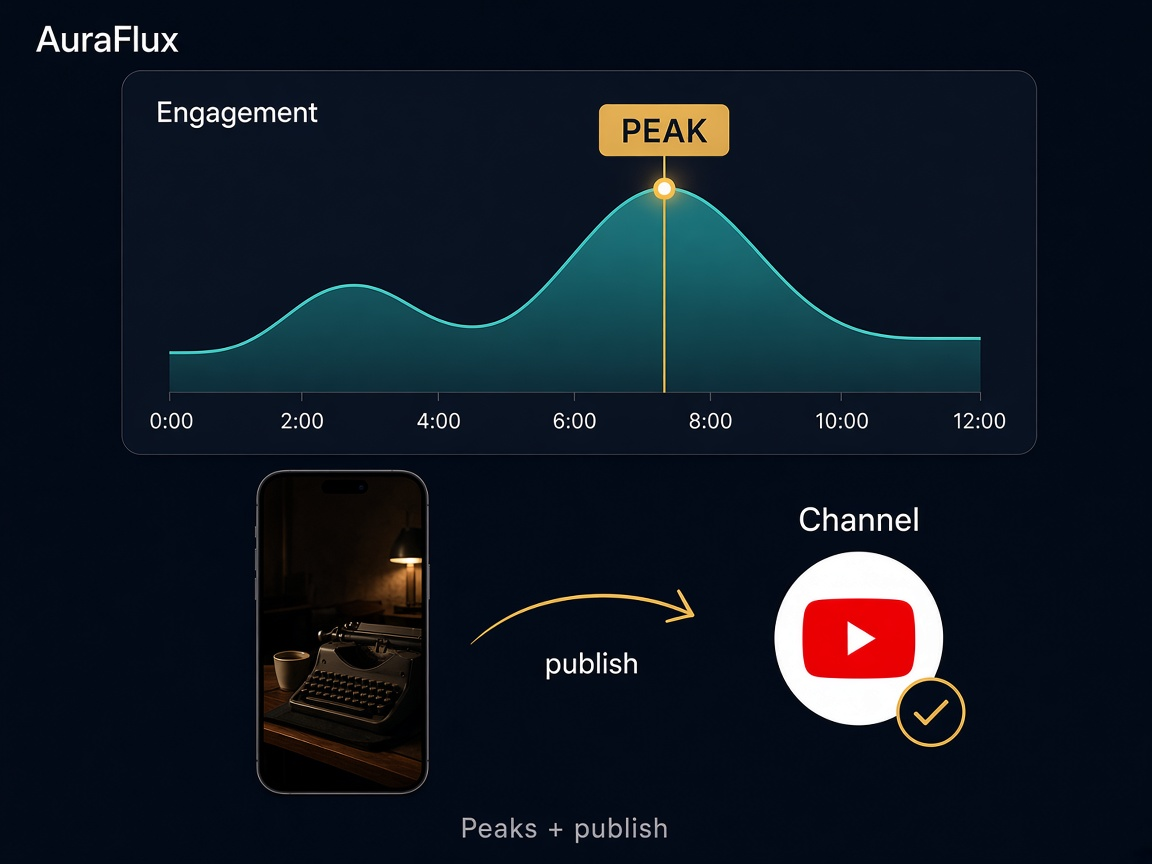
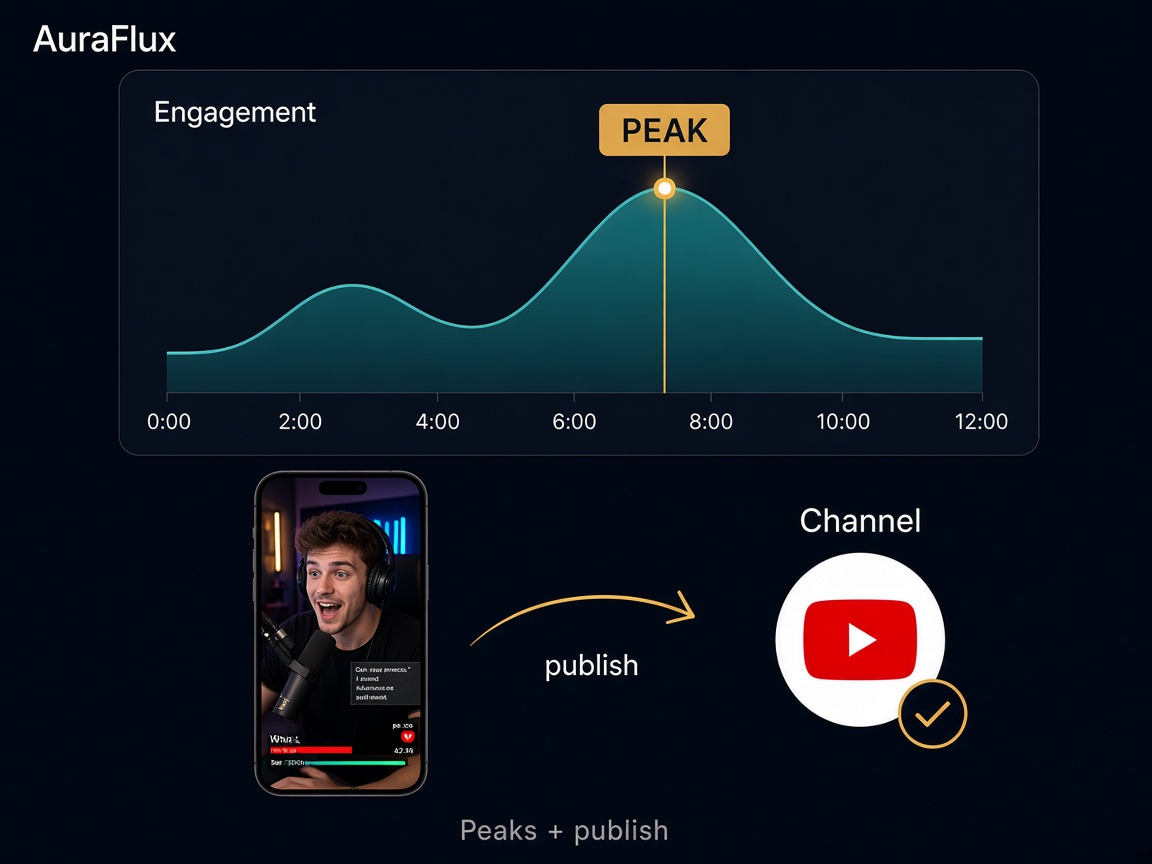
content(marketing): plan Short preview shows streamer peak, not typewriter [deploy]

diff --git a/cloudflare/marketing/pages/pricing.html b/cloudflare/marketing/pages/pricing.html
@@ -141,7 +141,7 @@ ${FRAMER_NAV || FALLBACK_NAV}
 <div class="plans-wrap">
 <div class="plans">
   <div class="plan">
-    <img class="plan-img" src="/images/plan-auraflux-peaks-publish.png?v=3" alt="AuraFlux Peaks + publish plan">
+    <img class="plan-img" src="/images/plan-auraflux-peaks-publish.png?v=4" alt="AuraFlux Peaks + publish plan">
     <div class="plan-body">
       <div class="plan-name">AuraFlux</div>
       <div class="plan-title">Peaks + publish</div>

diff --git a/marketing/pages/pricing.html b/marketing/pages/pricing.html
@@ -141,7 +141,7 @@ ${FRAMER_NAV || FALLBACK_NAV}
 <div class="plans-wrap">
 <div class="plans">
   <div class="plan">
-    <img class="plan-img" src="/images/plan-auraflux-peaks-publish.png?v=3" alt="AuraFlux Peaks + publish plan">
+    <img class="plan-img" src="/images/plan-auraflux-peaks-publish.png?v=4" alt="AuraFlux Peaks + publish plan">
     <div class="plan-body">
       <div class="plan-name">AuraFlux</div>
       <div class="plan-title">Peaks + publish</div>

diff --git a/STATUS.md b/STATUS.md
@@ -2,7 +2,7 @@
 
 **Deploy Mode:** dev
 
-**Last Updated:** 2026-09-10 — Plans card: full 4:3 peak→publish graphic (no crop), wider card.
+**Last Updated:** 2026-09-10 — Plan graphic: Short preview is streamer clip, not typewriter.
 
 
 
